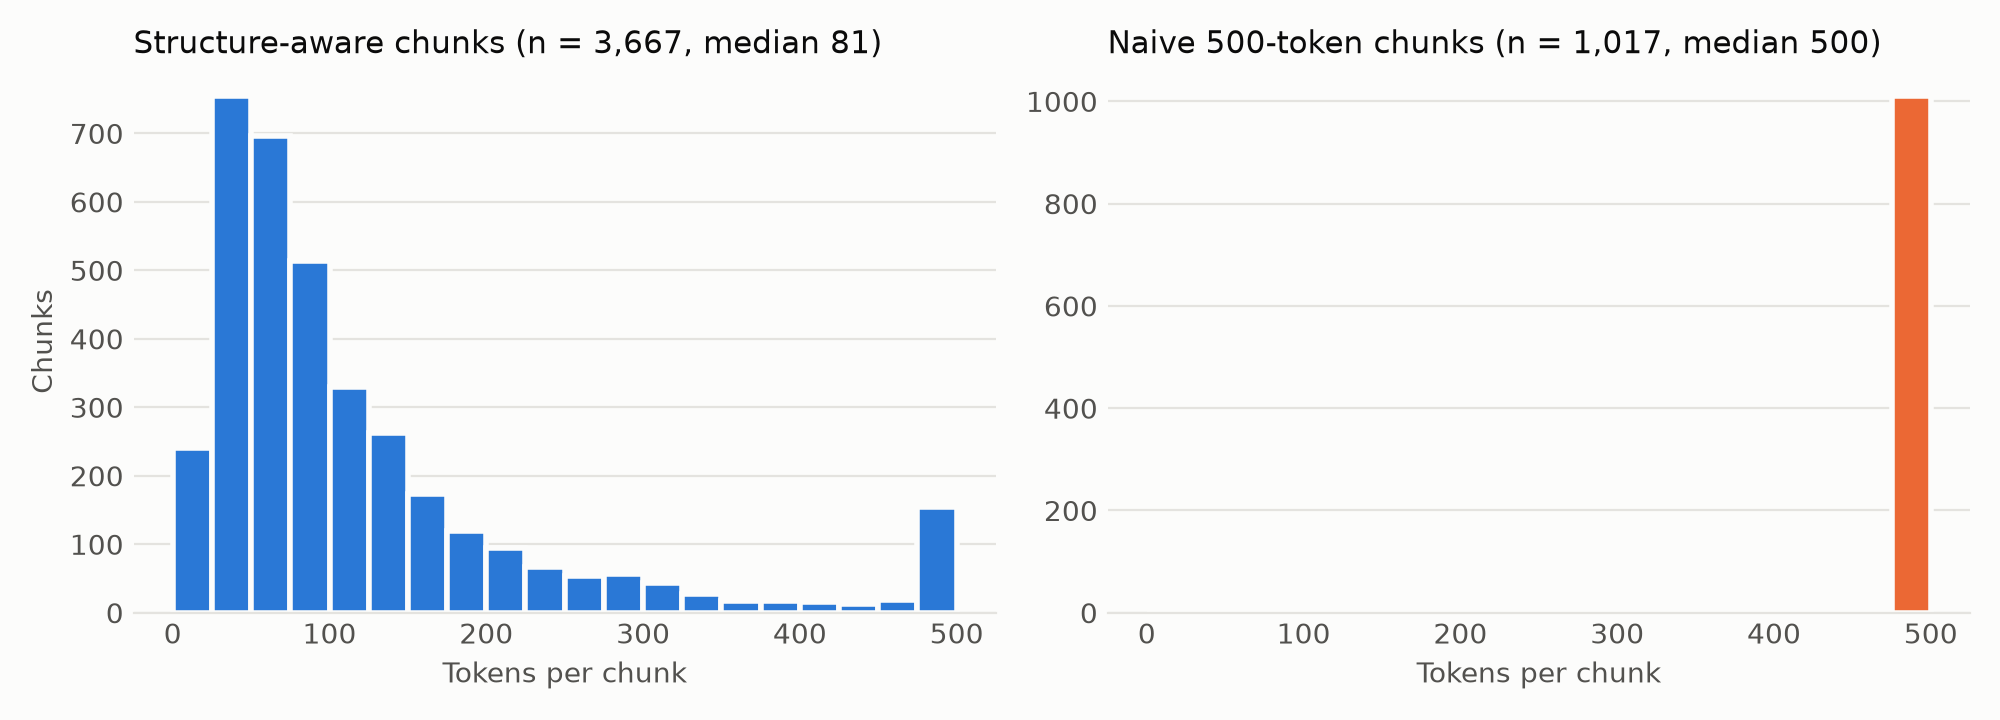
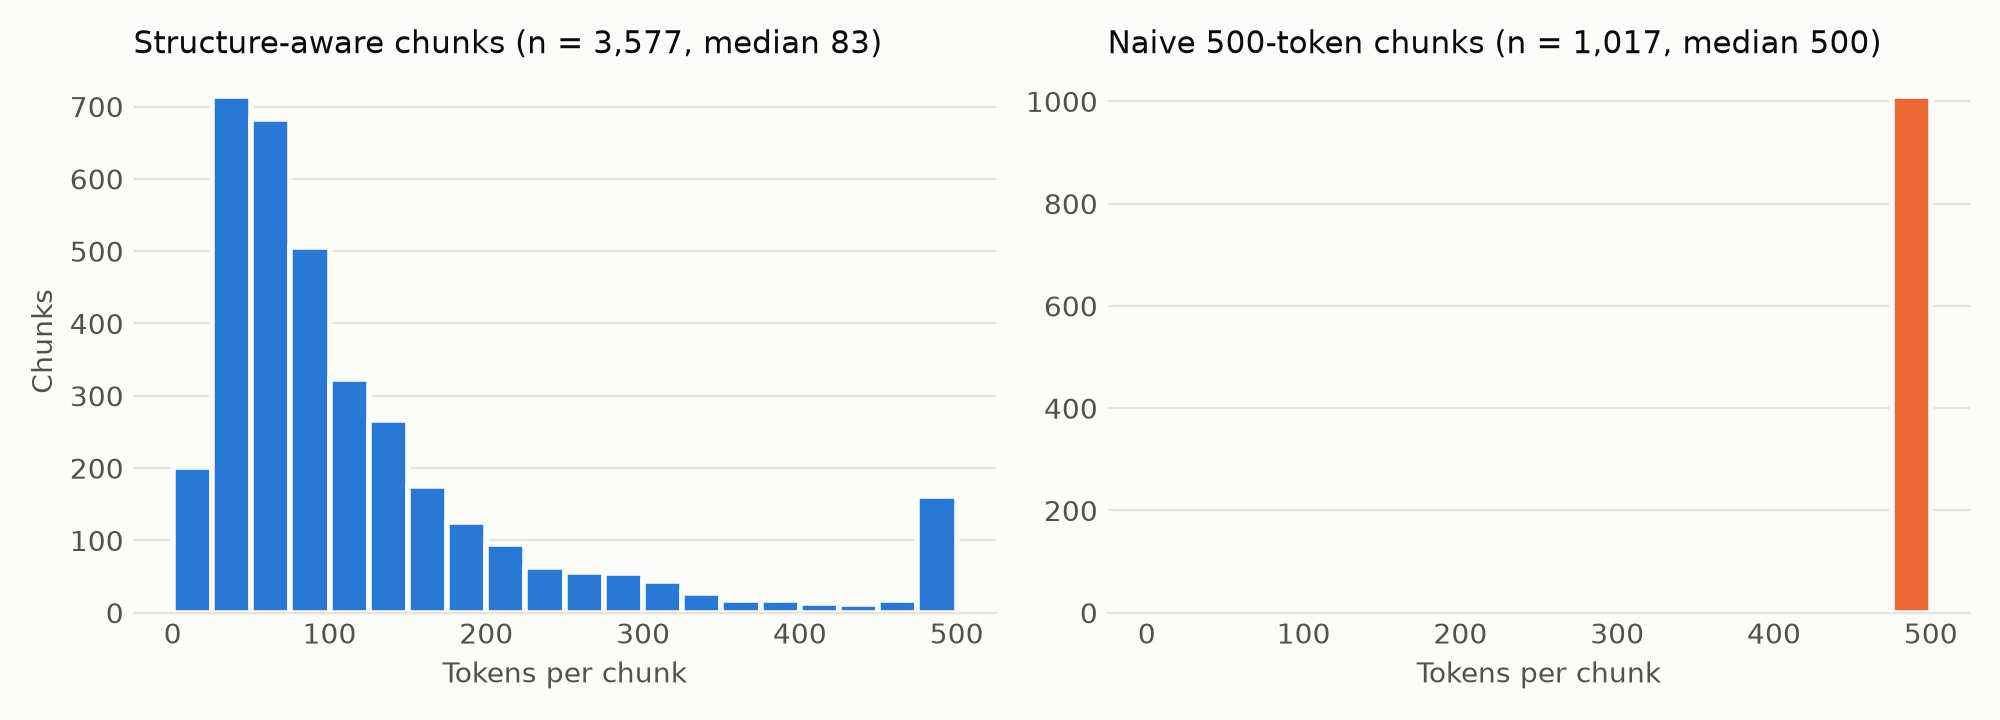
Act parser: wrapped cross-references no longer open subsections
A reference wrapped onto a line start ("... under subsections (1),\n(1AA)
and (2C).") matched the subsection pattern, so ~100 lines in the ITA
became fragment subsections, 65 of them with duplicate chunk ids. Found
when Chroma rejected the duplicates. A line now opens a subsection only
if its text starts like a sentence and the label is new in the section.

Structured chunks go from 3,667 to 3,577; data quality report regenerated.

diff --git a/rag/parse_act.py b/rag/parse_act.py
@@ -147,11 +147,21 @@ def _finish(section: Section | None, body: list[tuple[int, str]], end: int) -> N
     section.char_end = end
 
 
+def _starts_subsection(match: re.Match | None, seen: set[str | None]) -> bool:
+    """A "(2A) ..." line opens a subsection only if its text starts like a sentence and the label is new.
+    Cross-references wrap onto line starts too ("... under subsections (1),\n(1AA) and (2C).") and
+    continue with ",", "and", "or", "(b)" or lower case; ~100 such lines in the ITA."""
+    if not match or match.group(1) in seen:
+        return False
+    rest = match.group(2)
+    return not rest or rest[0].isupper() or rest[0] in "[“\""
+
+
 def _split_subsections(lines: list[str]) -> list[Subsection]:
     groups: list[tuple[str | None, list[str]]] = []
     for line in lines:
         match = SUBSECTION_RE.match(line)
-        if match:
+        if _starts_subsection(match, {label for label, _ in groups}):
             groups.append((match.group(1), [match.group(2)] if match.group(2) else []))
         elif groups:
             groups[-1][1].append(line)

diff --git a/tests/test_parse_act.py b/tests/test_parse_act.py
@@ -101,3 +101,16 @@ def test_letter_suffix_may_go_down_but_numbers_are_not_repeated():
     sections = parse_act_text(text)
     assert [s.number for s in sections] == ["93AA", "93A"]
     assert sections[1].text.endswith("93A. Not a new section.")
+
+
+def test_cross_references_wrapped_to_a_line_start_do_not_open_subsections():
+    text = ("An Act to test.\nPART 1\nGENERAL\nCapital allowances\n"
+            "7.—(1) An allowance is made under this section.\n"
+            "(1AA) A further allowance is made.\n"
+            "(2) Allowances made under subsections (1),\n"
+            "(1AA) and (2C) are deducted, as is any amount under subsection\n"
+            "(3) for the purposes of that subsection.\n"
+            "(3) The Comptroller may refuse an allowance.\n")
+    (section,) = parse_act_text(text)
+    assert [sub.label for sub in section.subsections] == ["1", "1AA", "2", "3"]
+    assert section.subsections[2].text.endswith("(3) for the purposes of that subsection.")

diff --git a/tests/test_real_documents.py b/tests/test_real_documents.py
@@ -5,6 +5,7 @@ from pathlib import Path
 
 import pytest
 
+from rag.chunk import act_chunks
 from rag.parse_act import act_body_span, parse_act_text
 from rag.parse_guide import parse_guide_text
 from rag.pdf_text import extract_text
@@ -42,3 +43,9 @@ def test_guide_headings_all_found(name, headings):
     titled = {p.heading for p in paragraphs if not p.heading.startswith("Annex")}
     assert len(titled) == headings
     assert not any(h.isdigit() for h in titled)
+
+
+def test_act_chunk_ids_are_unique(act_text):
+    chunks = act_chunks(parse_act_text(act_text), "ITA", "Income Tax Act 1947", "ITA 1947", "ITA_1947.pdf")
+    ids = [chunk.chunk_id for chunk in chunks]
+    assert len(ids) == len(set(ids))

diff --git a/results/data_quality.md b/results/data_quality.md
@@ -34,14 +34,14 @@ Generated by `scripts/data_quality.py` from the files listed in `data/raw/SOURCE
 
 | Chunks | Count | Empty | < 10 tokens | Split (> 500 tokens) | Min | Median | P95 | Max |
 |---|---|---|---|---|---|---|---|---|
-| Structure-aware | 3,667 | 0 | 13 | 238 | 1 | 81 | 428 | 500 |
+| Structure-aware | 3,577 | 0 | 8 | 246 | 1 | 83 | 452 | 500 |
 | Naive | 1,017 | 0 | 0 | 0 | 108 | 500 | 500 | 500 |
 
 ![Chunk length distribution](chunk_lengths.png)
 
 ## 3. Cross-reference integrity
 
-- 2,330 of 2,339 section references in chunks (99.6%) resolve to a parsed Act section.
+- 2,320 of 2,329 section references in chunks (99.6%) resolve to a parsed Act section.
 - Unresolved: s 759 (act, 3×), s 66A (act, 1×), s 43Y (act, 1×), s 43Z (act, 1×), s 43ZB (act, 1×), s 43ZC (act, 1×), s 43ZD (act, 1×).
 - Point to repealed sections: s 18A (act, 5×), s 40 (act, 1×), s 18A (guide, 1×).
 - 9 of the 30 distinct section numbers the guides cite were used for a different provision before 2020 (e.g. s 14Q was renovation and refurbishment, now s 14N). The guides use 2020 numbering, so references resolve under it; the one explicit legacy citation is the renovation guide's "unabsorbed S14Q (S14N of the 2020 Revised Edition)".
